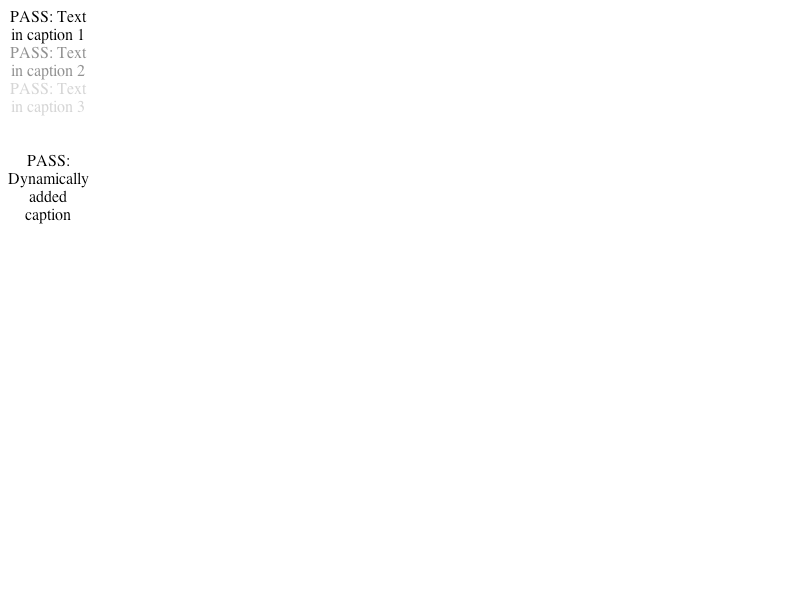
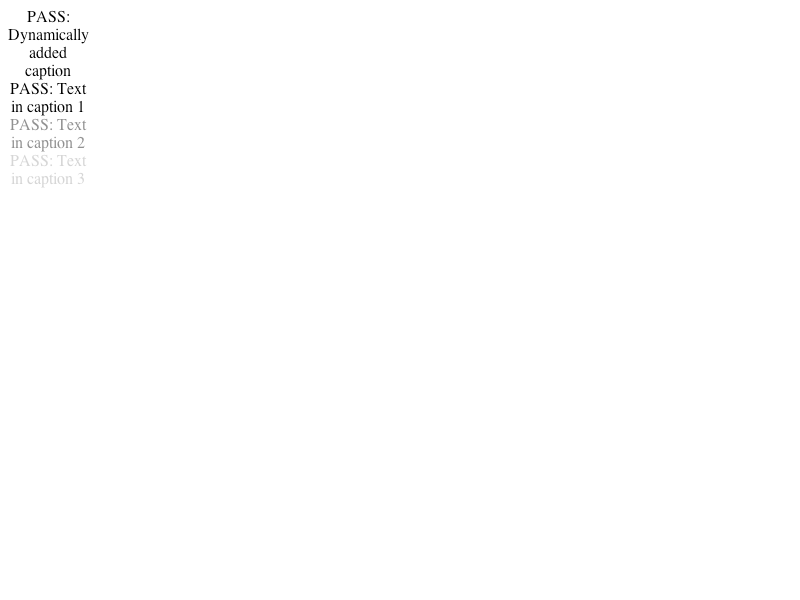
XML document builder should create render tree asynchronously https://bugs.webkit.org/show_bug.cgi?id=126285
Source/WebCore:

Reviewed by Andreas Kling.

Stop creating renderers explicitly.
Fix SVG <use> element to not rely on parse time render tree construction.

* svg/SVGUseElement.cpp:
(WebCore::SVGUseElement::svgAttributeChanged):

    Remove renderer check, we may not have created the render tree yet.

(WebCore::SVGUseElement::willAttachRenderers):

    Switch to willAttachRenderers from willRecalcStyle. The latter is only called as long as style
    recalc doesn't start creating new renderers.

(WebCore::SVGUseElement::invalidateShadowTree):

    Remove renderer check, we may not have created the render tree yet.
    Invalidate with ReconstructRenderTree so willAttachRenderers will always get called.

* svg/SVGUseElement.h:
* xml/parser/XMLDocumentParser.cpp:
(WebCore::XMLDocumentParser::exitText):
* xml/parser/XMLDocumentParserLibxml2.cpp:
(WebCore::XMLDocumentParser::startElementNs):
(WebCore::XMLDocumentParser::cdataBlock):

    Remove explicit call to attachRenderTree. The render tree will be created lazily.

LayoutTests:

Reviewed by Andreas Kling.

* platform/mac/fast/table/dynamic-caption-add-before-child-expected.png:
* platform/mac/fast/table/dynamic-caption-add-before-child-expected.txt:

    This is progression. Captions are now correctly in document order.

* svg/custom/object-no-size-attributes-expected.txt:

    Unnecessary text renderer disappears.

* svg/custom/resource-invalidation-crash-expected.txt:

    Progression, the dump has the correct fill.
[…]

Changed region(s): [[0.0, 0.0, 0.125, 0.39]]

diff --git a/Source/WebCore/xml/parser/XMLDocumentParserLibxml2.cpp b/Source/WebCore/xml/parser/XMLDocumentParserLibxml2.cpp
@@ -47,7 +47,6 @@
 #include "HTMLTemplateElement.h"
 #include "Page.h"
 #include "ProcessingInstruction.h"
-#include "RenderElement.h"
 #include "ResourceError.h"
 #include "ResourceRequest.h"
 #include "ResourceResponse.h"
@@ -845,7 +844,6 @@ void XMLDocumentParser::startElementNs(const xmlChar* xmlLocalName, const xmlCha
     if (!m_currentNode) // Synchronous DOM events may have removed the current node.
         return;
 
-    const ContainerNode* currentNode = m_currentNode;
 #if ENABLE(TEMPLATE_ELEMENT)
     if (newElement->hasTagName(HTMLNames::templateTag))
         pushCurrentNode(toHTMLTemplateElement(newElement.get())->content());
@@ -854,9 +852,6 @@ void XMLDocumentParser::startElementNs(const xmlChar* xmlLocalName, const xmlCha
 #else
     pushCurrentNode(newElement.get());
 #endif
-
-    if (m_view && currentNode->renderer() && !newElement->renderer())
-        Style::attachRenderTree(*newElement);
 
     if (newElement->hasTagName(HTMLNames::htmlTag))
         toHTMLHtmlElement(newElement.get())->insertedByParser();
@@ -1030,9 +1025,7 @@ void XMLDocumentParser::cdataBlock(const xmlChar* s, int len)
     exitText();
 
     RefPtr<CDATASection> newNode = CDATASection::create(m_currentNode->document(), toString(s, len));
-    m_currentNode->parserAppendChild(newNode.get());
-    if (m_view)
-        Style::attachTextRenderer(*newNode);
+    m_currentNode->parserAppendChild(newNode.release());
 }
 
 void XMLDocumentParser::comment(const xmlChar* s)
@@ -1048,7 +1041,7 @@ void XMLDocumentParser::comment(const xmlChar* s)
     exitText();
 
     RefPtr<Comment> newNode = Comment::create(m_currentNode->document(), toString(s));
-    m_currentNode->parserAppendChild(newNode.get());
+    m_currentNode->parserAppendChild(newNode.release());
 }
 
 enum StandaloneInfo {

diff --git a/Source/WebCore/svg/SVGUseElement.cpp b/Source/WebCore/svg/SVGUseElement.cpp
@@ -257,9 +257,6 @@ void SVGUseElement::svgAttributeChanged(const QualifiedName& attrName)
         return;
     }
 
-    if (!renderer)
-        return;
-
     if (SVGLangSpace::isKnownAttribute(attrName)
         || SVGExternalResourcesRequired::isKnownAttribute(attrName)) {
         invalidateShadowTree();
@@ -269,11 +266,10 @@ void SVGUseElement::svgAttributeChanged(const QualifiedName& attrName)
     ASSERT_NOT_REACHED();
 }
 
-bool SVGUseElement::willRecalcStyle(Style::Change)
+void SVGUseElement::willAttachRenderers()
 {
-    if (!m_wasInsertedByParser && m_needsShadowTreeRecreation && renderer() && needsStyleRecalc())
+    if (m_needsShadowTreeRecreation)
         buildPendingResource();
-    return true;
 }
 
 #ifdef DUMP_INSTANCE_TREE
@@ -889,10 +885,10 @@ SVGElementInstance* SVGUseElement::instanceForShadowTreeElement(Node* element, S
 
 void SVGUseElement::invalidateShadowTree()
 {
-    if (!renderer() || m_needsShadowTreeRecreation)
+    if (m_needsShadowTreeRecreation)
         return;
     m_needsShadowTreeRecreation = true;
-    setNeedsStyleRecalc();
+    setNeedsStyleRecalc(ReconstructRenderTree);
     invalidateDependentShadowTrees();
 }
 

diff --git a/Source/WebCore/xml/parser/XMLDocumentParser.cpp b/Source/WebCore/xml/parser/XMLDocumentParser.cpp
@@ -41,8 +41,6 @@
 #include "HTMLStyleElement.h"
 #include "ImageLoader.h"
 #include "ProcessingInstruction.h"
-#include "RenderElement.h"
-#include "RenderText.h"
 #include "ResourceError.h"
 #include "ResourceRequest.h"
 #include "ResourceResponse.h"
@@ -167,9 +165,6 @@ void XMLDocumentParser::exitText()
     m_leafTextNode->appendData(toString(m_bufferedText.data(), m_bufferedText.size()), IGNORE_EXCEPTION);
     Vector<xmlChar> empty;
     m_bufferedText.swap(empty);
-
-    if (m_view && m_leafTextNode->parentNode() && m_leafTextNode->parentNode()->renderer() && !m_leafTextNode->renderer())
-        Style::attachTextRenderer(*m_leafTextNode);
 
     m_leafTextNode = 0;
 }

diff --git a/Source/WebCore/svg/SVGUseElement.h b/Source/WebCore/svg/SVGUseElement.h
@@ -67,7 +67,7 @@ private:
     virtual void parseAttribute(const QualifiedName&, const AtomicString&) OVERRIDE;
     virtual void svgAttributeChanged(const QualifiedName&);
 
-    virtual bool willRecalcStyle(Style::Change);
+    virtual void willAttachRenderers() OVERRIDE;
 
     virtual RenderElement* createRenderer(PassRef<RenderStyle>) OVERRIDE;
     virtual void toClipPath(Path&);
